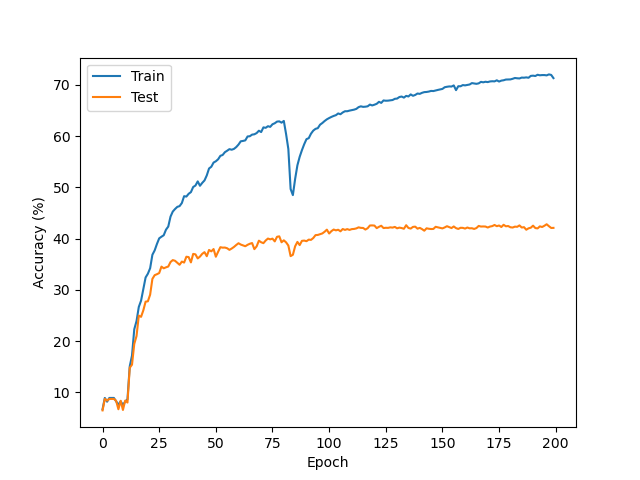
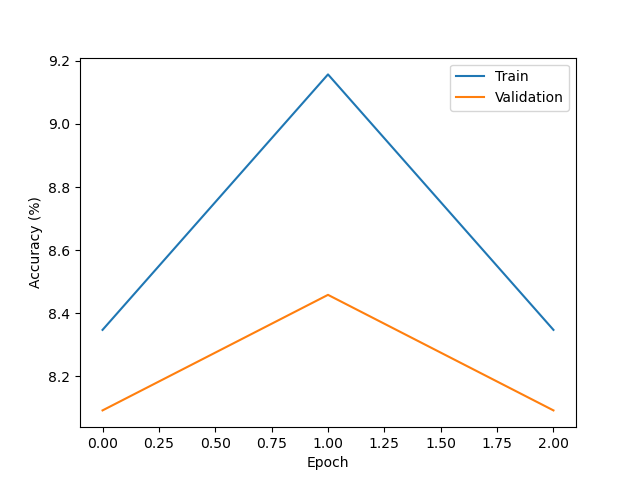
add validation dataset

diff --git a/data/multi_hot_encoding.py b/data/multi_hot_encoding.py
@@ -321,7 +321,7 @@ def get_dataset5(melody, beats):
 
     return beats_mel, vocab_sizes, target_size
 
-def get_dataset_multi_hot(choice=1, test_split=0.2):
+def get_dataset_multi_hot(choice=1, val_split=0.1, test_split=0.1):
     '''
     Generate train and test dataset. Based on dataset choice
     choice:
@@ -399,54 +399,80 @@ def get_dataset_multi_hot(choice=1, test_split=0.2):
 
             target_sequence.append(seq_one_hot)
                 
-    # Split
-    split_idx = int(len(sequences)*(1-test_split))
-    train_seq = sequences[:split_idx]
-    test_seq = sequences[split_idx:]
-    train_target_seq = target_sequence[:split_idx]
-    test_target_seq = target_sequence[split_idx:]
+    # convert to np array
+    sequences = np.array(sequences)
+    target_sequence = np.array(target_sequence)
+    melodies = np.array(melodies)
+    bass_pitch = np.array(bass_pitch)
+
+    # Split Train/Val/Test
+    random_idxs = np.random.permutation(len(sequences))
+    split_1 = int(len(sequences)*(1-test_split-val_split))
+    split_2 = int(len(sequences)*(1-test_split))
+
+    train_idxs = random_idxs[:split_1]
+    val_idxs = random_idxs[split_1:split_2]
+    test_idxs = random_idxs[split_2:]
+
+    train_seq = sequences[train_idxs]
+    val_seq = sequences[val_idxs]
+    test_seq = sequences[test_idxs]
+    train_target_seq = target_sequence[train_idxs]
+    val_target_seq = target_sequence[val_idxs]
+    test_target_seq = target_sequence[test_idxs]
 
     if choice == 4:
-        train_mel = melodies[:split_idx]
-        test_mel = melodies[split_idx:]
+        train_mel = melodies[train_idxs]
+        val_mel = melodies[val_idxs]
+        test_mel = melodies[test_idxs]
         train_dataset = MultiHot_MelodyEncoded_VLDataset(train_seq, train_mel, train_target_seq, vocab_sizes)
+        val_dataset = MultiHot_MelodyEncoded_VLDataset(val_seq, val_mel, val_target_seq, vocab_sizes)
         test_dataset = MultiHot_MelodyEncoded_VLDataset(test_seq, test_mel, test_target_seq, vocab_sizes)
         input_size = sum(vocab_sizes) + 12
-        return train_dataset, test_dataset, input_size, target_size
+        return train_dataset, val_dataset, test_dataset, input_size, target_size
 
     if choice == 5:
-        train_bass = bass_pitch[:split_idx]
-        test_bass = bass_pitch[split_idx:]
+        train_bass = bass_pitch[train_idxs]
+        val_bass = bass_pitch[val_idxs]
+        test_bass = bass_pitch[test_idxs]
         train_dataset = MultiHot_MelodyEncoded_VLDataset(train_seq, train_bass, train_target_seq, vocab_sizes)
+        val_dataset = MultiHot_MelodyEncoded_VLDataset(val_seq, val_bass, val_target_seq, vocab_sizes)
         test_dataset = MultiHot_MelodyEncoded_VLDataset(test_seq, test_bass, test_target_seq, vocab_sizes)
         input_size = sum(vocab_sizes) + 12
-        return train_dataset, test_dataset, input_size, target_size
+        return train_dataset, val_dataset, test_dataset, input_size, target_size
 
     if choice == 6:
-        train_mel = melodies[:split_idx]
-        test_mel = melodies[split_idx:]
-        train_bass = bass_pitch[:split_idx]
-        test_bass = bass_pitch[split_idx:]        
+        train_mel = melodies[train_idxs]
+        val_mel = melodies[val_idxs]
+        test_mel = melodies[test_idxs]
+        train_bass = bass_pitch[train_idxs]
+        val_bass = bass_pitch[val_idxs]
+        test_bass = bass_pitch[test_idxs]
         train_dataset = MultiHot_MelodyBassEncoded_VLDataset(train_seq, train_mel, train_bass, train_target_seq, vocab_sizes)
+        val_dataset = MultiHot_MelodyBassEncoded_VLDataset(val_seq, val_mel, val_bass, val_target_seq, vocab_sizes)
         test_dataset = MultiHot_MelodyBassEncoded_VLDataset(test_seq, test_mel, test_bass, test_target_seq, vocab_sizes)
         input_size = sum(vocab_sizes) + 12 + 12
-        return train_dataset, test_dataset, input_size, target_size
+        return train_dataset, val_dataset, test_dataset, input_size, target_size
 
     if choice == 7:
-        train_mel = melodies[:split_idx]
-        test_mel = melodies[split_idx:]
-        #train_duration = duration_sequence[:split_idx]
-        #test_duration = duration_sequence[split_idx:]        
+        train_mel = melodies[train_idxs]
+        val_mel = melodies[val_idxs]
+        test_mel = melodies[test_idxs]
+        #train_duration = duration_sequence[train_idxs]
+        #val_duration = duration_sequence[val_idxs]
+        #test_duration = duration_sequence[test_idxs]       
         train_dataset = MultiHot_MelodyDurationEncoded_VLDataset(train_seq, train_mel, train_target_seq, vocab_sizes)
+        val_dataset = MultiHot_MelodyDurationEncoded_VLDataset(val_seq, val_mel, val_target_seq, vocab_sizes)
         test_dataset = MultiHot_MelodyDurationEncoded_VLDataset(test_seq, test_mel, test_target_seq, vocab_sizes)
         input_size = sum(vocab_sizes) + 12
-        return train_dataset, test_dataset, input_size, target_size
+        return train_dataset, val_dataset, test_dataset, input_size, target_size
 
     train_dataset = MultiHot_VLDataset(train_seq, train_target_seq, vocab_sizes)
+    val_dataset = MultiHot_VLDataset(val_seq, val_target_seq, vocab_sizes)
     test_dataset = MultiHot_VLDataset(test_seq, test_target_seq, vocab_sizes)
 
     input_size = sum(vocab_sizes)
-    return train_dataset, test_dataset, input_size, target_size
+    return train_dataset, val_dataset, test_dataset, input_size, target_size
 
 
 if __name__ == "__main__":

diff --git a/train.py b/train.py
@@ -10,7 +10,7 @@ sys.path.append('./Data/')
 from one_hot_encoding import get_dataset_one_hot
 from multi_hot_encoding import get_dataset_multi_hot
 from models.lstm_chord_models import LSTMChord, LSTMChordEmbedding, LSTMChordEmbedding_Multihot
-from models.lstm_melody_models import LSTM_Multihot
+from models.lstm_melody_models import LSTM_Multihot, LSTM_Multihot_MLP
 import pdb
 
 # Andrew's
@@ -29,11 +29,11 @@ def get_accuracy_vl(outputs, targets):
 
   return 100 * (flat_outputs[mask] == flat_targets[mask]).sum() / sum(mask)
 
-def get_test_loss(model, test_dataset):
+def get_val_loss(model, val_dataset):
     model.eval()
-    test_loader = DataLoader(test_dataset, batch_size=len(test_dataset), shuffle=False) 
+    val_loader = DataLoader(val_dataset, batch_size=len(val_dataset), shuffle=False) 
 
-    for batch_idx, batch in enumerate(test_loader):
+    for batch_idx, batch in enumerate(val_loader):
         inputs = batch["input"].float()
         targets = batch["target"]
         lengths = batch["length"]
@@ -45,14 +45,14 @@ def get_test_loss(model, test_dataset):
 
 
 # DM
-def evaluate_model(model, test_dataset):
+def evaluate_model(model, dataset):
     # TODO idk if this is the best way to load test data. what is the role of batch_size here?
     model.eval()
-    test_loader = DataLoader(test_dataset, batch_size=len(test_dataset), shuffle=False) 
+    loader = DataLoader(dataset, batch_size=len(dataset), shuffle=False) 
 
     correct = 0
     total = 0
-    for batch_idx, batch in enumerate(test_loader):
+    for batch_idx, batch in enumerate(loader):
         inputs = batch["input"].float()
         targets = batch["target"]
         lengths = batch["length"]
@@ -77,16 +77,15 @@ if __name__ == "__main__":
     # 354 training samples
     batch_size = 20
 
-    # train_dataset, test_dataset, vocab_size = get_mock_dataset()
-    #train_dataset, test_dataset, vocab_size = get_dataset(choice=1, test_split=0.2)
-    #train_dataset, test_dataset, input_size, target_size = get_dataset_multi_hot_new_encoding(choice=2, test_split=0.2)
-    train_dataset, test_dataset, input_size, target_size = get_dataset_multi_hot(choice=7, test_split=0.2)
+    #train_dataset, val_dataset, test_dataset, input_size, target_size = get_dataset_multi_hot_new_encoding(choice=2)
+    train_dataset, val_dataset, test_dataset, input_size, target_size = get_dataset_multi_hot(choice=4)
     train_loader = DataLoader(train_dataset, batch_size=batch_size, shuffle=True) 
 
     # Create model
     #model = LSTMChord(vocab_size, lstm_hidden_size=16)
     #model = LSTMChordEmbedding(vocab_size, embed_size=16, lstm_hidden_size=16)
     model = LSTM_Multihot(input_size, embed_size=64, lstm_hidden_size=64, target_size=target_size, num_layers=2, dropout_linear=0.4, dropout_lstm=0.4)
+    #model = LSTM_Multihot_MLP(input_size, embed_size=64, lstm_hidden_size=64, target_size=target_size, num_layers=2, dropout_linear=0.4, dropout_lstm=0.4)
 
     # Define training variables
     #optimizer = optim.Adam(model.parameters(), lr=0.01)
@@ -94,11 +93,11 @@ if __name__ == "__main__":
     #optimizer = optim.Adam(model.parameters(), lr=0.01, weight_decay=0.00001)
     #optimizer = optim.SGD(model.parameters(), lr=0.0005)
     #optimizer = optim.SGD(model.parameters(), lr=0.0001, momentum=0.9)
-    epochs = 200
+    epochs = 3
     train_losses = []
-    test_losses = []
+    val_losses = []
     train_accuracies = []
-    test_accuracies = []
+    val_accuracies = []
 
     # TRAIN
     n_batches = np.ceil(len(train_dataset)/batch_size)
@@ -123,10 +122,10 @@ if __name__ == "__main__":
 
         model.eval()
         train_losses.append(epoch_loss)
-        test_losses.append(get_test_loss(model, test_dataset))
+        val_losses.append(get_val_loss(model, val_dataset))
         train_accuracies.append(evaluate_model(model, train_dataset))
-        test_accuracies.append(evaluate_model(model, test_dataset))
-        print("Train/test loss: \t%.4f\t%.4f\t\tTrain/test accuracy: \t%.2f\t%.2f" % (epoch_loss, test_losses[-1], train_accuracies[-1], test_accuracies[-1]))
+        val_accuracies.append(evaluate_model(model, val_dataset))
+        print("Train/val loss: \t%.4f\t%.4f\t\tTrain/val accuracy: \t%.2f\t%.2f" % (epoch_loss, val_losses[-1], train_accuracies[-1], val_accuracies[-1]))
 
         if epoch == 50 or epoch == 100 or epoch == 150:
             for g in optimizer.param_groups:
@@ -137,11 +136,13 @@ if __name__ == "__main__":
     # EVALUATE
     tr_acc = evaluate_model(model, train_dataset)
     print('Train accuracy:\t%.2f' % tr_acc)
+    val_acc = evaluate_model(model, val_dataset)
+    print('Val accuracy:\t%.2f' % val_acc)
     te_acc = evaluate_model(model, test_dataset)
     print('Test accuracy:\t%.2f' % te_acc)
 
     plt.plot(train_losses, label='Train')
-    plt.plot(test_losses, label='Test')
+    plt.plot(val_losses, label='Validation')
     plt.legend()
     plt.ylabel('Loss')
     plt.xlabel('Epoch')
@@ -149,7 +150,7 @@ if __name__ == "__main__":
     plt.show()
 
     plt.plot(train_accuracies, label='Train')
-    plt.plot(test_accuracies, label='Test')
+    plt.plot(val_accuracies, label='Validation')
     plt.ylabel('Accuracy (%)')
     plt.xlabel('Epoch')
     plt.legend()

diff --git a/models/lstm_melody_models.py b/models/lstm_melody_models.py
@@ -42,3 +42,44 @@ class LSTM_Multihot(nn.Module):
         out = self.output(out)
 
         return out 
+
+class LSTM_Multihot_MLP(nn.Module):
+    def __init__(self, input_size, embed_size, lstm_hidden_size, target_size, num_layers=1, dropout_linear=0, dropout_lstm=0):
+        super().__init__()
+        self.input_size = input_size
+        self.embed_size = embed_size
+        self.lstm_hidden_size = lstm_hidden_size
+        self.target_size = target_size
+        self.num_layers = num_layers
+
+        self.embed = nn.Linear(input_size, embed_size)
+        self.embed2 = nn.Linear(embed_size, embed_size)
+
+        self.lstm = nn.LSTM(
+            self.embed_size,
+            self.lstm_hidden_size,
+            num_layers=self.num_layers,
+            bidirectional=False,
+            batch_first=True,
+            dropout=dropout_lstm        # if non-zero, introduces dropout of outputs of every lstm layer except the last out
+        )
+
+        self.dropout_linear = nn.Dropout(p=dropout_linear)
+        self.hidden = nn.Linear(self.lstm_hidden_size, self.lstm_hidden_size)
+        self.output = nn.Linear(self.lstm_hidden_size, self.target_size)
+
+    def forward(self, inputs, lengths):  
+        embeddings = F.relu(self.embed(inputs))
+        embeddings = F.relu(self.embed2(embeddings))
+
+        packed = pack_padded_sequence(embeddings, lengths, enforce_sorted=False, batch_first=True)
+        lstm_out_packed, hidden_out = self.lstm(packed)
+        lstm_out, _ = pad_packed_sequence(lstm_out_packed, batch_first=True)
+        out = F.relu(lstm_out)
+
+        out = self.dropout_linear(out)
+        out = F.relu(self.hidden(out))
+        out = self.dropout_linear(out)
+        out = self.output(out)
+
+        return out 
